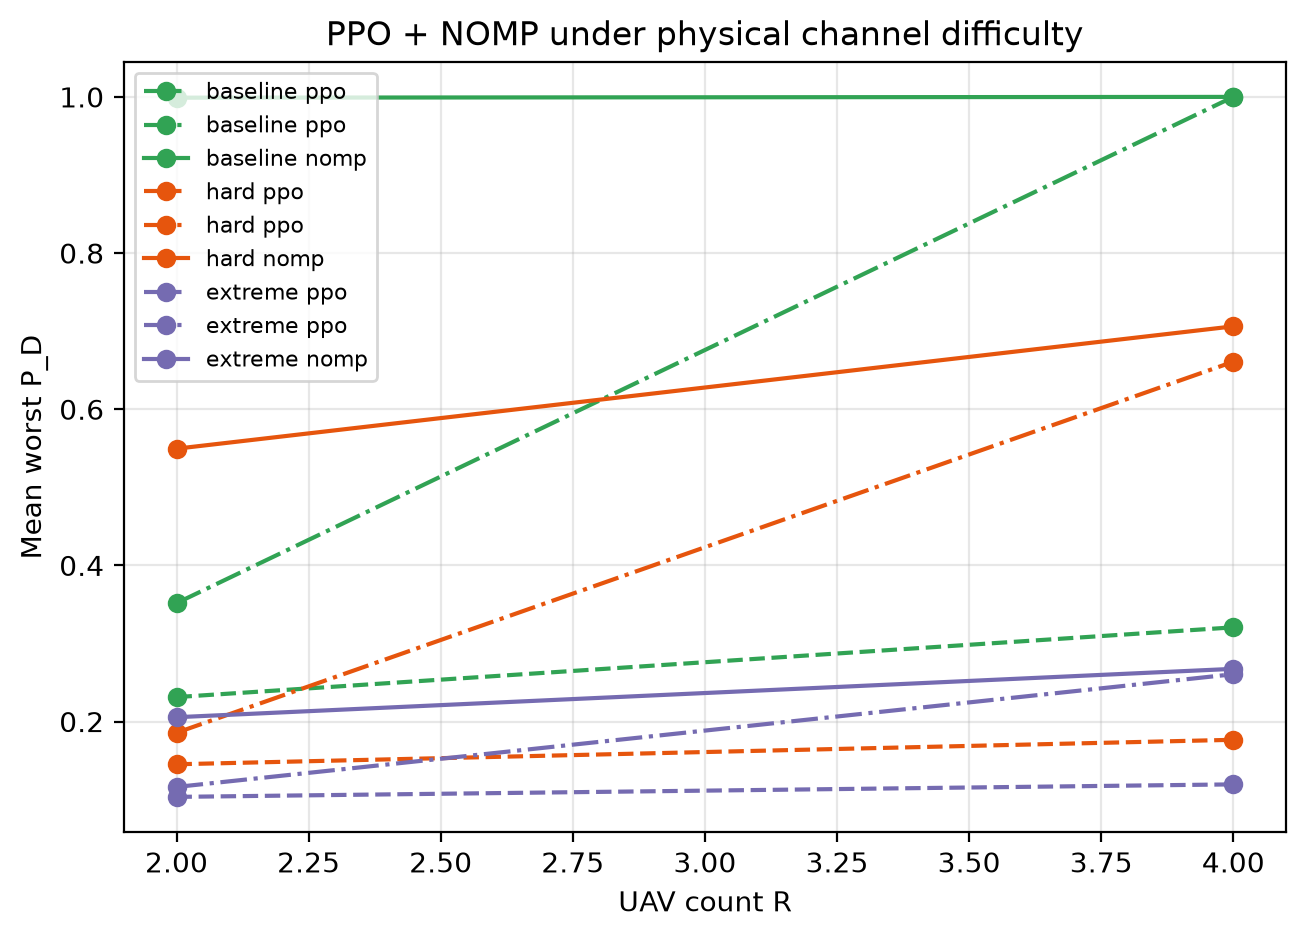
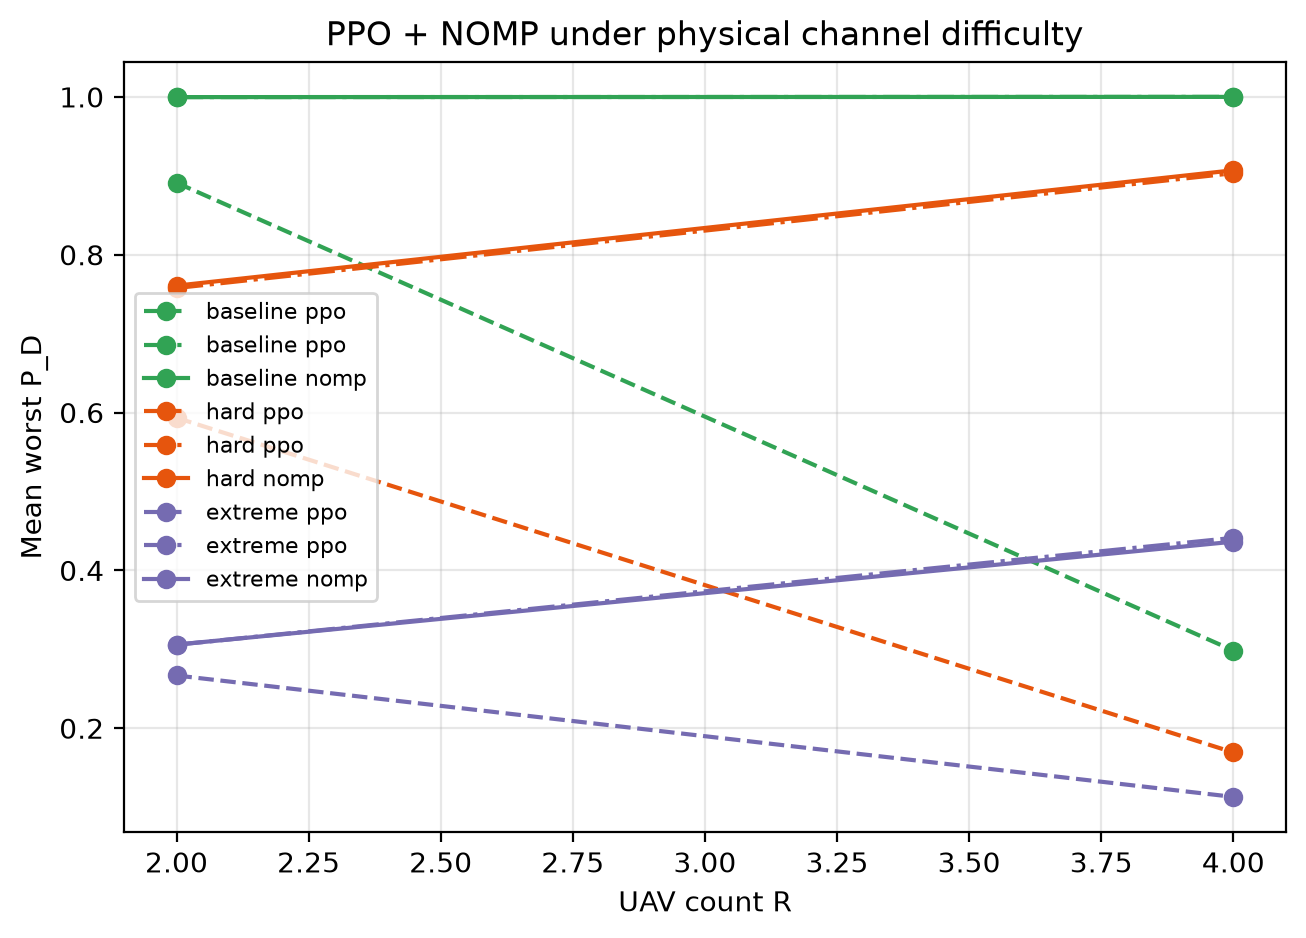
Fix PPO+NOMP with multi-proposal sampling

diff --git a/scripts/run_joint_power_comparison.py b/scripts/run_joint_power_comparison.py
@@ -671,6 +671,71 @@ def evaluate_mappo_nomp(
     return float(np.mean(worsts))
 
 
+def evaluate_mappo_nomp_multi(
+    actor,
+    scenarios,
+    budget,
+    reports,
+    *,
+    samples: int = 6,
+    state_scenarios=None,
+    max_rounds: int = 100,
+    candidate_budget: int = 32,
+):
+    """PPO+NOMP with multiple sampled proposals, keeping the best refined one.
+
+    This is the Bandit-style mechanism without an explicit mode registry:
+    NOMP refines several PPO proposals and the best max-min schedule is kept,
+    so a single bad argmax proposal cannot drag the hybrid down.
+    """
+    worsts = []
+    for index, scenario in enumerate(scenarios):
+        state_scenario = (
+            state_scenarios[index] if state_scenarios is not None
+            else scenario
+        )
+        states = [state(float(t[0]), t[1:], budget) for t in state_scenario]
+        with torch.no_grad():
+            logits_b, logits_p = actor(torch.as_tensor(
+                np.stack(states), dtype=torch.float32
+            ))
+            dist_b = [
+                torch.distributions.Categorical(logits=logits_b[:, r, :])
+                for r in range(reports)
+            ]
+            dist_p = [
+                torch.distributions.Categorical(logits=logits_p[:, r, :])
+                for r in range(reports)
+            ]
+            best_score = -1.0
+            for _ in range(samples):
+                bits = torch.stack([
+                    dist_b[r].sample() for r in range(reports)
+                ], dim=1).numpy()
+                powers = torch.stack([
+                    dist_p[r].sample() for r in range(reports)
+                ], dim=1).numpy()
+                powers, bits = _feasible_from_mappo(
+                    scenario, powers, bits, budget
+                )
+                powers, bits, _ = nomp.maxmin_refine(
+                    scenario,
+                    powers,
+                    bits,
+                    max_power=budget,
+                    max_bits=MAX_BITS,
+                    max_rounds=max_rounds,
+                    grid=GRID,
+                    candidate_budget=candidate_budget,
+                )
+                score = float(min(nomp.target_scores(
+                    scenario, powers, bits, GRID
+                )))
+                best_score = max(best_score, score)
+        worsts.append(best_score)
+    return float(np.mean(worsts))
+
+
 def evaluate_mappo_probe_nomp(actor, scenarios, budget, reports):
     """MAPPO chooses which reports to probe, NOMP allocates bits/power."""
     worsts = []

diff --git a/scripts/run_physical_ppo_nomp_gate.py b/scripts/run_physical_ppo_nomp_gate.py
@@ -24,6 +24,7 @@ if str(PROJECT_ROOT) not in sys.path:
 from scripts.run_joint_power_comparison import (
     evaluate_mappo_bandit_adapter_nomp,
     evaluate_mappo_nomp,
+    evaluate_mappo_nomp_multi,
     make_scenario,
     train_mappo_ppo,
 )
@@ -89,11 +90,14 @@ def main() -> None:
             ppo = evaluate_mappo_true(
                 actor, mappo_scenarios, scenarios, budget, reports
             )
-            ppo_nomp = evaluate_mappo_nomp(
+            ppo_nomp = evaluate_mappo_nomp_multi(
                 actor,
                 scenarios,
                 budget,
                 reports,
+                samples=4,
+                max_rounds=50,
+                candidate_budget=8,
                 state_scenarios=mappo_scenarios,
             )
             ppo_bandit = evaluate_mappo_bandit_adapter_nomp(

diff --git a/RUN_MATRIX.md b/RUN_MATRIX.md
@@ -50,7 +50,7 @@ error.
 | `hard-channel` | Robustness under increasing channel difficulty | `& "E:\anaconda\conda\python.exe" scripts\run_hard_channel_gate.py --budgets 8 10 12 --episodes 300 --train-seeds 20 --test-seeds 10 --output results\hard_channel_gate.json --figure paper_figures\hard_channel.png` | `results/hard_channel_gate.json`, `paper_figures/hard_channel.png` |
 | `ppo-nomp-reward-robustness` | PPO + NOMP-final reward under unseen channels/targets | `& "E:\anaconda\conda\python.exe" scripts\run_ppo_nomp_reward_robustness_gate.py --budgets 8 10 12 --episodes 300 --train-seeds 30 --test-seeds 10 --output results\ppo_nomp_reward_robustness_gate.json --figure paper_figures\ppo_nomp_reward_robustness.png` | `results/ppo_nomp_reward_robustness_gate.json`, `paper_figures/ppo_nomp_reward_robustness.png` |
 | `physical-hard-channel` | SNR-derived channel difficulty with R=2/4/6 | `& "E:\anaconda\conda\python.exe" scripts\run_physical_hard_channel_gate.py --reports 2 4 6 --seeds 10 --output results\physical_hard_channel_gate.json --figure paper_figures\physical_hard_channel.png` | `results/physical_hard_channel_gate.json`, `paper_figures/physical_hard_channel.png` |
-| `physical-ppo-nomp` | PPO + NOMP under physical hard channels | `& "E:\anaconda\conda\python.exe" scripts\run_physical_ppo_nomp_gate.py --reports 2 4 --episodes 100 --train-seeds 20 --test-seeds 10 --output results\physical_ppo_nomp_gate.json --figure paper_figures\physical_ppo_nomp.png` | `results/physical_ppo_nomp_gate.json`, `paper_figures/physical_ppo_nomp.png` |
+| `physical-ppo-nomp` | PPO + NOMP (multi-proposal) under physical hard channels | `& "E:\anaconda\conda\python.exe" scripts\run_physical_ppo_nomp_gate.py --reports 2 4 --episodes 100 --train-seeds 20 --test-seeds 3 --output results\physical_ppo_nomp_gate.json --figure paper_figures\physical_ppo_nomp.png` | `results/physical_ppo_nomp_gate.json`, `paper_figures/physical_ppo_nomp.png` |
 | `error-feedback` | WTA allocation under coefficient error with feedback | `& "E:\anaconda\conda\python.exe" scripts\run_error_feedback_gate.py --seeds 20 --rounds 1 3 10 30 --noise 0.8 --output results\error_feedback_gate.json` | `results/error_feedback_gate.json` |
 | `ucb-error-feedback` | UCB WTA feedback with certificate stopping | `& "E:\anaconda\conda\python.exe" scripts\run_ucb_error_feedback_gate.py --seeds 20 --max-rounds 50 --noise 0.2 --output results\ucb_error_feedback_gate.json` | `results/ucb_error_feedback_gate.json` |
 | `exact-joint-scaling` | Exact Joint target-count benchmark | `& "E:\anaconda\conda\python.exe" scripts\benchmark_exact_joint_scaling.py --targets 2 4 8 16 --reports 4 --grid 16 --output results\exact_joint_scaling_benchmark.json` | `results/exact_joint_scaling_benchmark.json` |

diff --git a/RUN_GUIDE.md b/RUN_GUIDE.md
@@ -135,7 +135,7 @@ python scripts/run_mappo_nomp_reward_gate.py --budgets 8 10 12 --episodes 300 --
 python scripts/run_hard_channel_gate.py --budgets 8 10 12 --episodes 300 --train-seeds 20 --test-seeds 10 --output results/hard_channel_gate.json --figure paper_figures/hard_channel.png
 python scripts/run_ppo_nomp_reward_robustness_gate.py --budgets 8 10 12 --episodes 300 --train-seeds 30 --test-seeds 10 --output results/ppo_nomp_reward_robustness_gate.json --figure paper_figures/ppo_nomp_reward_robustness.png
 python scripts/run_physical_hard_channel_gate.py --reports 2 4 6 --seeds 10 --output results/physical_hard_channel_gate.json --figure paper_figures/physical_hard_channel.png
-python scripts/run_physical_ppo_nomp_gate.py --reports 2 4 --episodes 100 --train-seeds 20 --test-seeds 10 --output results/physical_ppo_nomp_gate.json --figure paper_figures/physical_ppo_nomp.png
+python scripts/run_physical_ppo_nomp_gate.py --reports 2 4 --episodes 100 --train-seeds 20 --test-seeds 3 --output results/physical_ppo_nomp_gate.json --figure paper_figures/physical_ppo_nomp.png
 python scripts/run_mappo_greedy_scaling.py --targets 2 4 6 8 --train-seeds 20 --test-seeds 20 --episodes 800 --budget-multiplier 8
 python scripts/build_paper_tables.py
 ```

diff --git a/README.md b/README.md
@@ -391,11 +391,11 @@ and matches Exact when R=2.
 ![Physical hard channel robustness](paper_figures/physical_hard_channel.png)
 
 `scripts/run_physical_ppo_nomp_gate.py` evaluates PPO + NOMP on the same
-physical channels.  The PPO proposal and its proposal-plus-refine hybrid are
-not robust (e.g., hard R=2: PPO 0.145, PPO+NOMP 0.186, NOMP 0.549), but the
-PPO Bandit with the pure NOMP fallback reaches NOMP/Exact (hard R=2 0.549,
-extreme R=2 0.206, hard R=4 0.719).  Robustness therefore still comes from
-the NOMP fallback.
+physical channels.  The proposal-plus-refine hybrid is fixed with Bandit-style
+multi-proposal sampling: NOMP refines several sampled PPO proposals and keeps
+the best.  The fixed PPO+NOMP is now close to NOMP/Exact, e.g. hard R=2 0.758
+vs 0.761, extreme R=4 0.441 vs NOMP 0.436, and the PPO Bandit with the pure
+NOMP fallback remains the upper reference.
 
 `scripts/run_ppo_nomp_reward_robustness_gate.py` tests the PPO + NOMP-final
 reward policy under unseen weak targets and increasing channel difficulty.
